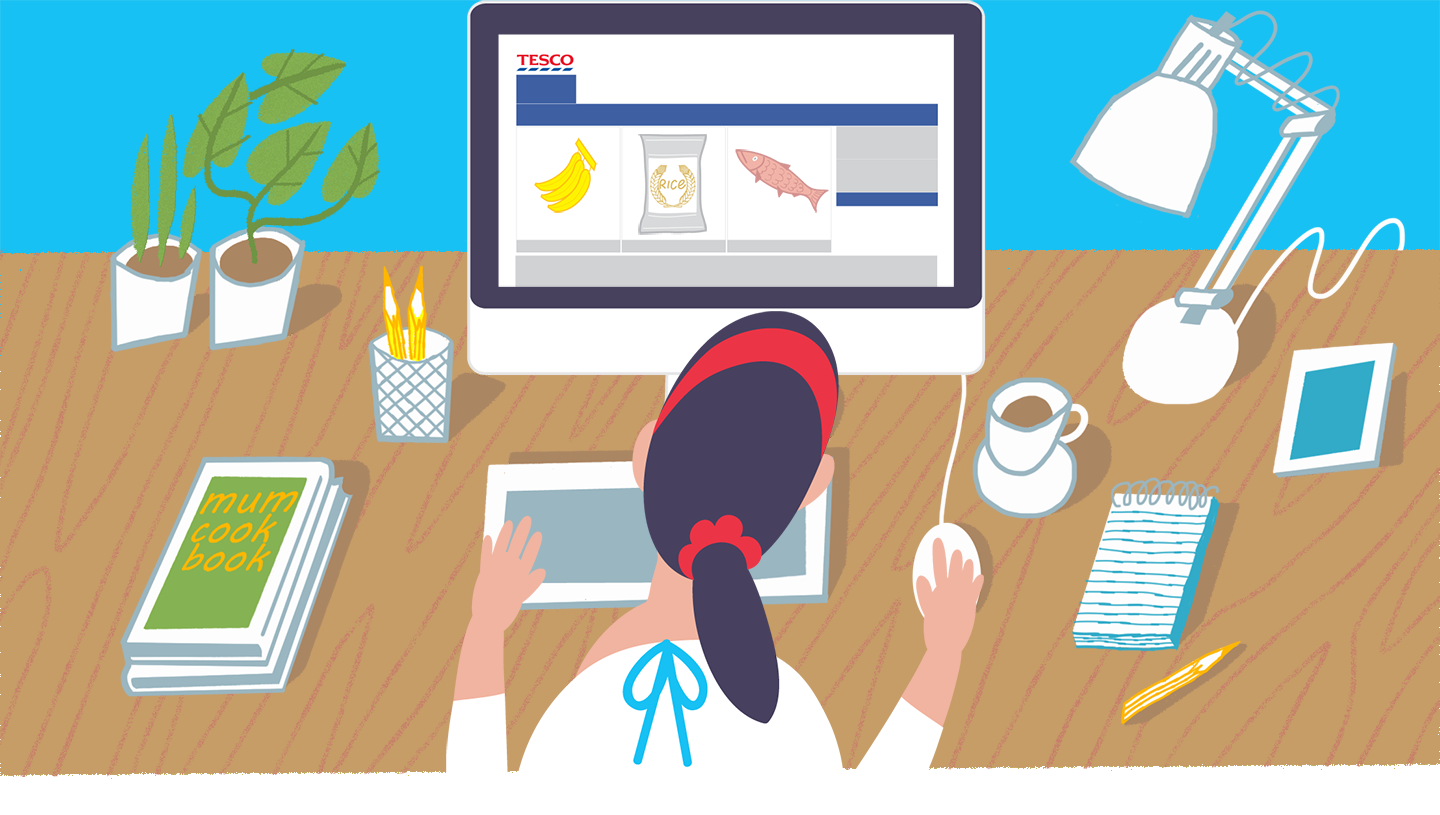
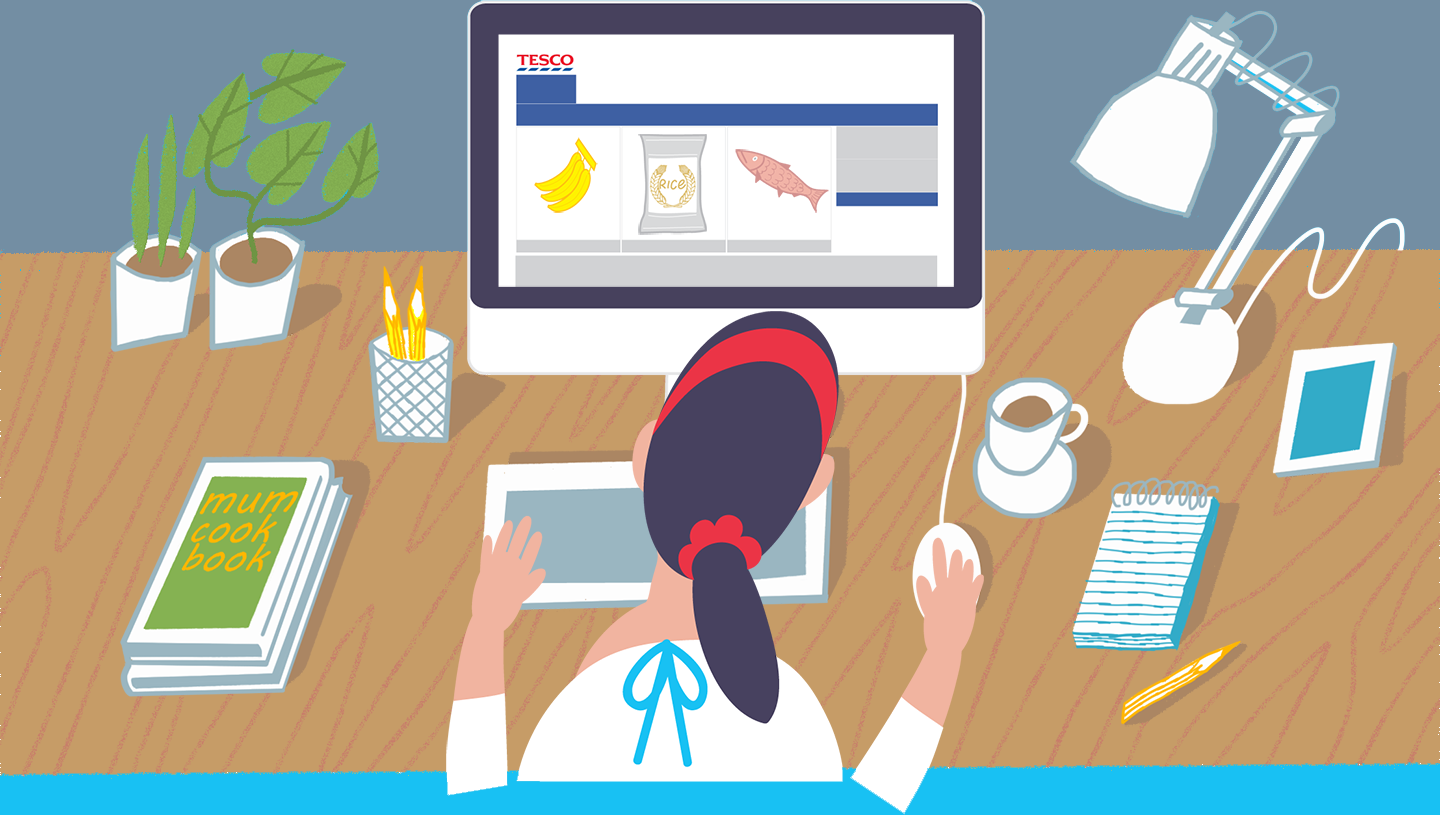
Bunch of issues fixed on Parallax & Navbar

Changed region(s): [[0.0, 0.0, 0.3438, 0.3374], [0.6562, 0.0, 1.0, 0.3067], [0.0, 0.9202, 1.0, 1.0]]

diff --git a/style.css b/style.css
@@ -15,26 +15,27 @@ html {
   background-position: 50% 0;
   background-size: 100% auto; 
 }
-html.parallax { background-color: #17c1f4; background-image: none; }
+html.parallax { background-color: #738ea3; background-image: none; }
 
 body { font-family: 'Montserrat', sans-serif; font-size: 14px; color: #444; text-align: center; }
-	.parallax body { font-size: 1.1em; -webkit-font-smoothing: antialiased; }
-	.parallax p { line-height: 1.6em; }
+	.parallax  .scene { font-size: 120%; -webkit-font-smoothing: antialiased; }
+	.parallax .scene p { line-height: 1.6em; }
 
 .wrap { position: relative; padding: 0; width: 1111px; margin: 0 auto; text-align: left; }
 #header {  }
 	h1#logo a { display: block; width: 340px; height: 129px; background: url(img/logo.png) no-repeat; }
 	h1#logo span { display: none; }
-	#nav { font-family: 'Open Sans'; width: 771px; float: right; padding: 50px 0 0; }
-	#nav li { width: 13%; float: left; text-align: center; padding: 0 0 20px; margin: 0 22px; }
+	#nav { font-family: 'Open Sans'; width: 700px; float: right; padding: 50px 0 0; }
+	#nav li { width: 18%; float: left; text-align: center; padding: 0 0 20px; margin: 0 20px; }
 	#nav li a  { color: #fff; text-transform: uppercase; font-weight: 500; font-size: 15px; }
-		#nav li:last-child  { width: auto; margin: 0; }
+		#nav li:last-child  { width: auto; margin-right: 0; }
 		#nav li:last-child a { font-size: 1.3em; font-weight: 700; display: block; width: 176px; height: 54px; background: url(img/shopmenu.png) no-repeat; color: #ee3b46; }
 		#nav li:last-child:hover { background: none; }
-		#nav li:first-child { padding: 0 0 10px; }
-	#nav li:first-child a, #nav li:last-child a { line-height: 50px; }
+		/*#nav li:first-child { padding: 0 0 10px; }*/
+	/*#nav li:first-child a,*/ #nav li:last-child a { line-height: 50px; }
+	#nav li:nth-child(3) { padding-top: 10px; }
 	#nav a:hover { text-decoration: none; }
-	#nav li:hover , #nav li.active { background: url(img/menuhover.png) no-repeat left bottom; } 
+	#nav li:hover , #nav li.active { background: url(img/menuhover.png) no-repeat center bottom; } 
 #content { }
 	.sidebar { float: left; width: 365px;  }
 	.sidebar.deliveryman { height: 668px;  background: url(img/deliveryman.png) no-repeat; }

diff --git a/css/parallax.css b/css/parallax.css
@@ -39,17 +39,20 @@
 }
 
 .scene2 {
-  margin: 0 0 -10px;
+  /*margin: 0 0 -10px;*/
   position: relative;
   z-index: 4;
 }
 
 .scene3 {
-  margin: 0 0 -110px;
+  background-color: #18c1f3;
+  padding: 20px 0;
+  margin: 0 0 -10px; 
+  /*margin: 0 0 -110px;*/
 }
 
 .scene3 p {
-  width: 870px;
+  /*width: 870px;*/
 }
 
 .scene5 {
@@ -67,6 +70,8 @@
 	background: url(../img/bg-orange-box.png);
 	padding: 15px 25px 20px 25px;
 	text-align: center;
+	width: 20%;
+	right: 0 !important;
 }
 
 .explanation1 {
@@ -80,26 +85,22 @@
 }
 
 .explanation3 {
-	margin-left: -60px;
 	position: absolute;
 	top: 670px;
-	width: 300px;
+	/*margin-left: -60px; width: 300px;*/
 }
 
 .explanation4 {
 	position: absolute;
 	top: 450px;
-	width: 350px;
-	left: -50px;
+	/*width: 350px;
+	left: -50px;*/
 }
 
 .explanation5 {
-	left: 50%;
-	margin-left: -440px;
 	position: absolute;
-	text-align: center;
 	top: 3500px;
-	width: 800px;
+	/*width: 800px; margin-left: -440px; left: 50%; */
 	z-index: 4;
 }
 
@@ -110,12 +111,9 @@
 }
 
 .explanation7 {
-	left: 50%;
-	margin-left: -440px;
 	position: absolute;
-	text-align: center;
 	top: 2000px;
-	width: 800px;
+	/*width: 800px; left: 50%; margin-left: -440px;*/
 	z-index: 4;
 }
 

diff --git a/the-science-of-delivery.html b/the-science-of-delivery.html
@@ -19,18 +19,15 @@
 <div class="wrap">
 	<div id="backtotop">Back to Top</div>
 	<div class="clearfix">
-		<h1 class="floatl" id="logo"><a href="#"><span>Tesco Delivery Lab</span></a></h1>
+		<h1 class="floatl" id="logo"><a href="index.html"><span>Tesco Delivery Lab</span></a></h1>
 		<ul id="nav">
-			<li><a href="index.html"><span>Main Page</span></a></li>
 			<li class="active"><a href="the-science-of-delivery.html"><span>The Science of Delivery</span></a></li>
 			<li><a href="more-experiments.html"><span>More Experiments</span></a></li>
 			<li><a href="more-science.html"><span>More Science</span></a></li>
 			<li><a href="http://eshop.tesco.com.my"><span>Shop Now</span></a></li>
 		</ul>
 	</div>
-	<div id="content">
-		<h1 class="page-title">The Science of Delivery</h1>
-	</div>
+	<div id="content"></div>
 </div>
 	<div class="scene scene1"><div class="sceneContent">
 		<p class="explanationBlue">The journey starts with your order on eshop.tesco.com.my. Once logged in, simply pick from the over 17,000 items in the store, checkout the items, and suggest the ideal delivery time. An e-mail confirming your order will be sent immediately after checkout. </p>

diff --git a/4-surprising-ways-online-shopping-can-benefit-your-love-life.html b/4-surprising-ways-online-shopping-can-benefit-your-love-life.html
@@ -17,9 +17,8 @@
 <div class="wrap">
 	<div id="backtotop">Back to Top</div>
 	<div class="clearfix">
-		<h1 class="floatl" id="logo"><a href="#"><span>Tesco Delivery Lab</span></a></h1>
+		<h1 class="floatl" id="logo"><a href="index.html"><span>Tesco Delivery Lab</span></a></h1>
 		<ul id="nav">
-			<li><a href="index.html"><span>Main Page</span></a></li>
 			<li><a href="the-science-of-delivery.html"><span>The Science of Delivery</span></a></li>
 			<li><a href="more-experiments.html"><span>More Experiments</span></a></li>
 			<li class="active"><a href="more-science.html"><span>More Science</span></a></li>

diff --git a/5-amazing-benefits-of-online-grocery-shopping-you-didnt-know-about.html b/5-amazing-benefits-of-online-grocery-shopping-you-didnt-know-about.html
@@ -17,9 +17,8 @@
 <div class="wrap">
 	<div id="backtotop">Back to Top</div>
 	<div class="clearfix">
-		<h1 class="floatl" id="logo"><a href="#"><span>Tesco Delivery Lab</span></a></h1>
+		<h1 class="floatl" id="logo"><a href="index.html"><span>Tesco Delivery Lab</span></a></h1>
 		<ul id="nav">
-			<li><a href="index.html"><span>Main Page</span></a></li>
 			<li><a href="the-science-of-delivery.html"><span>The Science of Delivery</span></a></li>
 			<li><a href="more-experiments.html"><span>More Experiments</span></a></li>
 			<li class="active"><a href="more-science.html"><span>More Science</span></a></li>

diff --git a/how-to-build-the-perfect-grocery-shopping-list.html b/how-to-build-the-perfect-grocery-shopping-list.html
@@ -17,9 +17,8 @@
 <div class="wrap">
 	<div id="backtotop">Back to Top</div>
 	<div class="clearfix">
-		<h1 class="floatl" id="logo"><a href="#"><span>Tesco Delivery Lab</span></a></h1>
+		<h1 class="floatl" id="logo"><a href="index.html"><span>Tesco Delivery Lab</span></a></h1>
 		<ul id="nav">
-			<li><a href="index.html"><span>Main Page</span></a></li>
 			<li><a href="the-science-of-delivery.html"><span>The Science of Delivery</span></a></li>
 			<li><a href="more-experiments.html"><span>More Experiments</span></a></li>
 			<li class="active"><a href="more-science.html"><span>More Science</span></a></li>

diff --git a/how-to-lose-weight-by-following-these-simple-online-shopping-rules.html b/how-to-lose-weight-by-following-these-simple-online-shopping-rules.html
@@ -17,9 +17,8 @@
 <div class="wrap">
 	<div id="backtotop">Back to Top</div>
 	<div class="clearfix">
-		<h1 class="floatl" id="logo"><a href="#"><span>Tesco Delivery Lab</span></a></h1>
+		<h1 class="floatl" id="logo"><a href="index.html"><span>Tesco Delivery Lab</span></a></h1>
 		<ul id="nav">
-			<li><a href="index.html"><span>Main Page</span></a></li>
 			<li><a href="the-science-of-delivery.html"><span>The Science of Delivery</span></a></li>
 			<li><a href="more-experiments.html"><span>More Experiments</span></a></li>
 			<li class="active"><a href="more-science.html"><span>More Science</span></a></li>

diff --git a/more-experiments.html b/more-experiments.html
@@ -17,9 +17,8 @@
 <div class="wrap">
 	<div id="backtotop">Back to Top</div>
 	<div class="clearfix">
-		<h1 class="floatl" id="logo"><a href="#"><span>Tesco Delivery Lab</span></a></h1>
+		<h1 class="floatl" id="logo"><a href="index.html"><span>Tesco Delivery Lab</span></a></h1>
 		<ul id="nav">
-			<li><a href="index.html"><span>Main Page</span></a></li>
 			<li><a href="the-science-of-delivery.html"><span>The Science of Delivery</span></a></li>
 			<li class="active"><a href="more-experiments.html"><span>More Experiments</span></a></li>
 			<li><a href="more-science.html"><span>More Science</span></a></li>

diff --git a/more-science.html b/more-science.html
@@ -17,9 +17,8 @@
 <div class="wrap">
 	<div id="backtotop">Back to Top</div>
 	<div class="clearfix">
-		<h1 class="floatl" id="logo"><a href="#"><span>Tesco Delivery Lab</span></a></h1>
+		<h1 class="floatl" id="logo"><a href="index.html"><span>Tesco Delivery Lab</span></a></h1>
 		<ul id="nav">
-			<li><a href="index.html"><span>Main Page</span></a></li>
 			<li><a href="the-science-of-delivery.html"><span>The Science of Delivery</span></a></li>
 			<li><a href="more-experiments.html"><span>More Experiments</span></a></li>
 			<li class="active"><a href="more-science.html"><span>More Science</span></a></li>

diff --git a/index.html b/index.html
@@ -16,9 +16,8 @@
 <body>
 <div class="wrap">
 	<div class="clearfix">
-		<h1 class="floatl" id="logo"><a href="#"><span>Tesco Delivery Lab</span></a></h1>
+		<h1 class="floatl" id="logo"><a href="index.html"><span>Tesco Delivery Lab</span></a></h1>
 		<ul id="nav">
-			<li class="active"><a href="index.html"><span>Main Page</span></a></li>
 			<li><a href="the-science-of-delivery.html"><span>The Science of Delivery</span></a></li>
 			<li><a href="more-experiments.html"><span>More Experiments</span></a></li>
 			<li><a href="more-science.html"><span>More Science</span></a></li>
